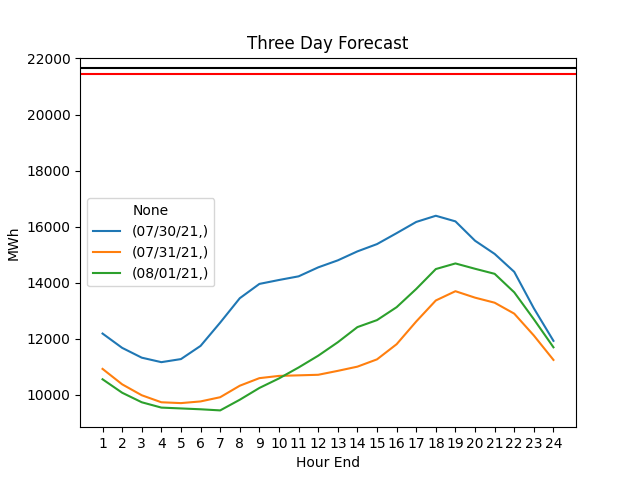
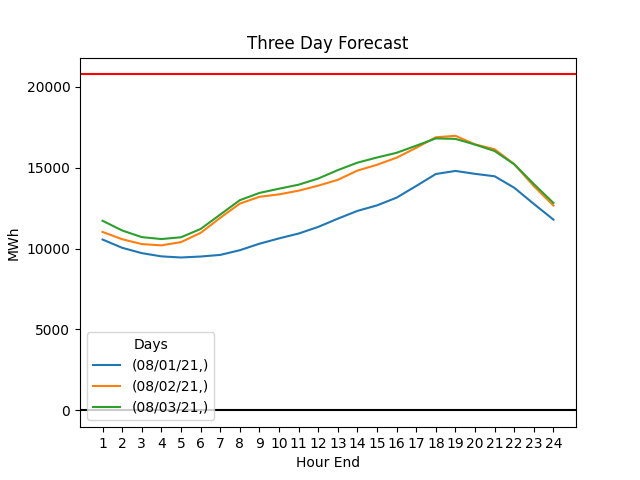
Alert Rating updates

diff --git a/threeDay/test.html b/threeDay/test.html
@@ -6,7 +6,7 @@
     <title>Page Title</title>
     <meta name='viewport' content='width=device-width, initial-scale=1'>
     <link rel='stylesheet' type='text/css' media='screen' href='df_style.css'>
-    <script src='main.js'></script>
+    <script src='main.js'></script> 
 </head>
 <body>
     <table>

diff --git a/threeDay/threeDayForecast.py b/threeDay/threeDayForecast.py
@@ -1,3 +1,4 @@
+from numpy.lib.function_base import diff
 import requests
 from requests.models import HTTPBasicAuth
 import pandas as pd
@@ -59,6 +60,9 @@ def current_month_threshold():
             if day_data > day_peak:
                 day_peak = day_data
         month_data.append(day_peak)
+    
+    if len(month_data) == 0:
+        return 0
     
     return round(max(month_data) * .97)
 
@@ -161,6 +165,7 @@ def create_line_chart(df, threshold_1, threshold_2):
             24,
         ]
     )
+    plt.legend(title= "Days", loc= 3)
     plt.axhline(y=threshold_1, color='red')
     plt.axhline(y=threshold_2, color='black')
     plt.xlabel("Hour End")
@@ -247,6 +252,35 @@ def save_as_csv(data):
             the_writer.writerow({"Day": item_count, "Mw": item})
 
 
+def alert_rating(peak, threshold):
+    if threshold == 0:
+        decision = "N/A"
+        rating = "N/A"
+        return rating, decision
+
+    difference = peak - threshold
+
+    if difference < -1000:
+        decision = "No"
+        rating = 0
+    elif difference >= -1000 and difference <= -500:
+        decision = "No"
+        rating = 1
+    elif difference > -500 and difference <= 0:
+        decision = "No"
+        rating = 2
+    elif difference > 0 and difference <= 500:
+        decision = "Yes"
+        rating = 3
+    elif difference > 500 and difference <= 1000:
+        decision = "Yes"
+        rating = 4
+    elif difference > 1000:
+        decision = "Yes"
+        rating = 5
+
+    return rating, decision
+
 if __name__ == "__main__":
     data = retrieve_data()
     table_data, graph_data = parse_data(data)
@@ -268,6 +302,8 @@ if __name__ == "__main__":
 
     today = datetime.date.today()
     today = today.strftime("%m/%d/%y")
+
+    rating, decision = alert_rating(peak_1, monthly_threshold)
     body = """\
     <html>
     <head>
@@ -302,18 +338,14 @@ if __name__ == "__main__":
          </tr>
          <tr>
             <th style="border: 1px solid black; border-collapse: collapse; text-align: left;">Alert Rating:</th>
-            <td style="border: 1px solid black; border-collapse: collapse;">0</td>
+            <td style="border: 1px solid black; border-collapse: collapse;">{10}</td>
          </tr>
          <tr>
             <th style="border: 1px solid black; border-collapse: collapse; text-align: left;">Turn on Battery/Generator?</th>
-            <td style="border: 1px solid black; border-collapse: collapse;">No</td>
-         </tr>
-         <tr>
-            <th style="border: 1px solid black; border-collapse: collapse; text-align: left;">Hours Ending to Run:</th>
-            <td style="border: 1px solid black; border-collapse: collapse;">N/A</td>
+            <td style="border: 1px solid black; border-collapse: collapse;">{11}</td>
          </tr>
     </table>
-        <img style="float:left; width: 750px; height: 550px;" src="cid:image2">
+        <img style="float:left; width: 375px; height: 275px; padding-left: 25px;" src="cid:image2">
         <div style="clear: both;"></div>
         <p  style="font-family: Verdana; font-size: 18px; float: left;">
             <strong class="upTop">Today's Projected Peak (MW)</strong> {0} at HE {1}<br>
@@ -339,7 +371,9 @@ if __name__ == "__main__":
         table_df.to_html(),
         today,
         historical_threshold,
-        monthly_threshold
+        monthly_threshold,
+        rating,
+        decision
         
     )
     doMail.send_mail(body)
